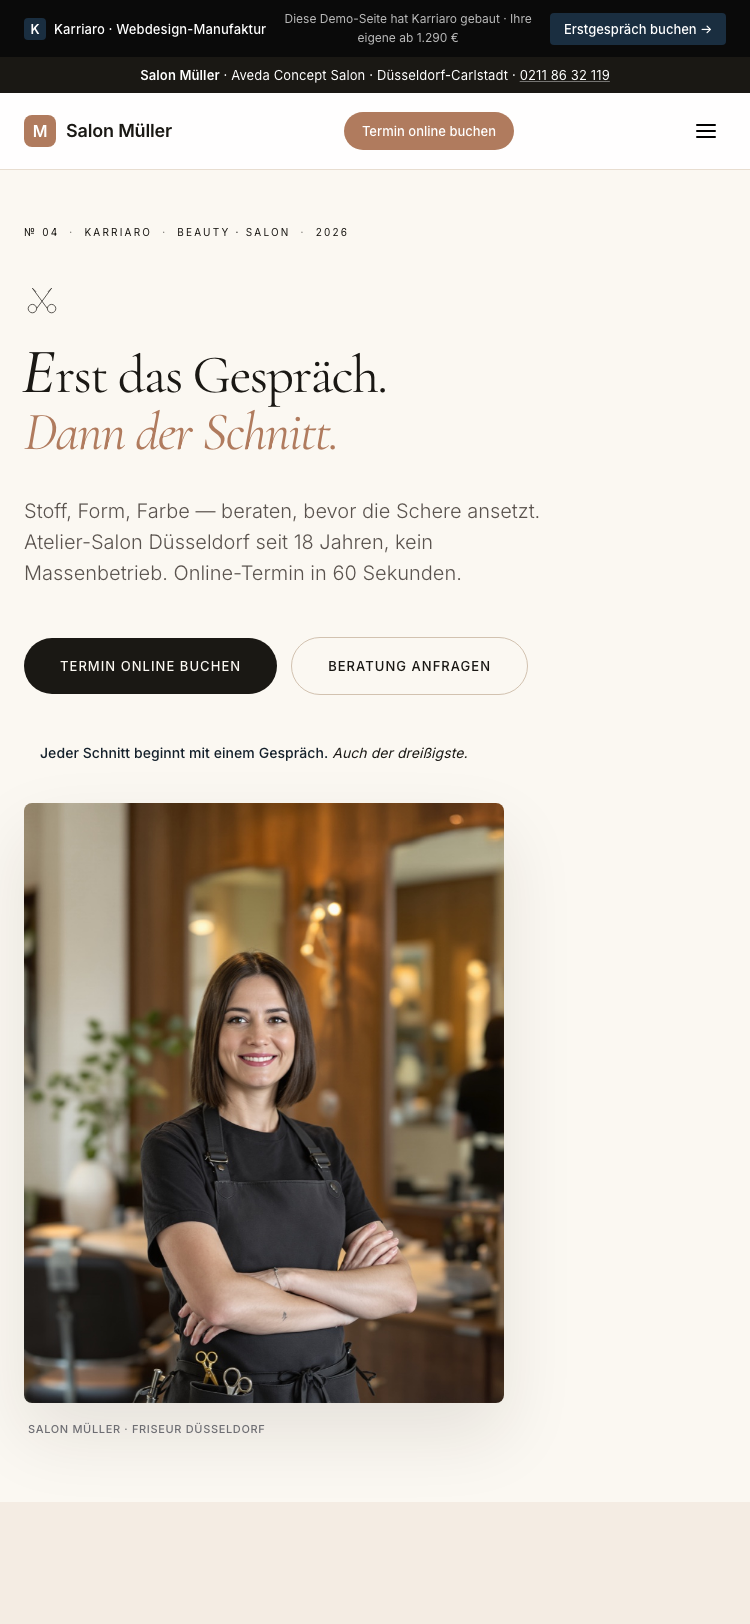
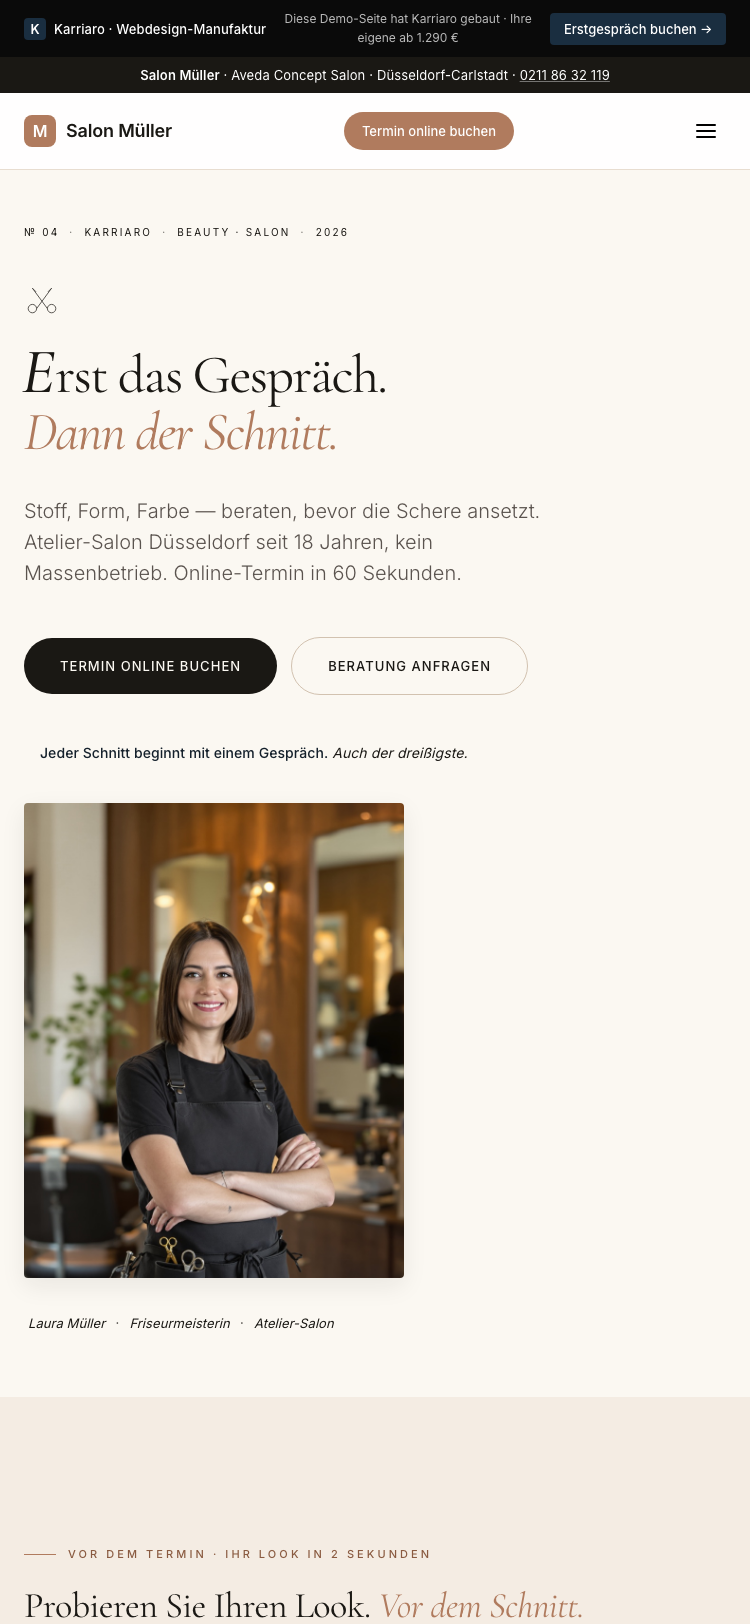
Sprint 59 — Hero-Portrait-Editorial-Frame + Hauptseite-Mockup-Sync
7 Sub-Page-Portraits geschmaeler + Editorial-Rahmen:
- max-width 480 -> 380px (Text-Spalte bekommt mehr Luft)
- 1px Gold-Border + leichterer Shadow + 4px-Radius (statt --radius-lg)
- Grid-Balance 1.05fr/1fr (oder 1.1fr/1fr) -> 1.15fr/0.85fr
- align-items: start (statt center) — Portrait sitzt oben, Text bekommt natuerliche Hoehe

Person-Caption ersetzt Firma-Label:
- Thomas Berger · Dachdeckermeister · 3. Generation
- Laura Mueller · Friseurmeisterin · Atelier-Salon
- Andreas Mueller · Geschaeftsfuehrer · IVD + HypZert
- Stefan Mueller · Sanitaer-Meister · SHK-Innung
- Dr. Sarah Weber · Allgemeinmedizin · KV-Vertragsaerztin
- Andreas Bauer · Kuechenchef · Slow Food
- Robert Schwaben · Geschaeftsfuehrer · 3. Generation
Cormorant-Italic, Gold-Separator-Punkte (.sep).

Coaching bleibt bildlos (Sprint 58 Single-Column-Hero).

Immobilien-Hero refactored: war edge-to-edge fullbleed (1fr/1fr Grid mit
Image 100% Hoehe), jetzt container-bound 1.15/0.85 wie die anderen 7.

hero-couture.css erweitert: .hero-grid--editorial, .hero-portrait-img--editorial,
.hero-portrait-caption, .hero-portrait-caption .sep + mobile-overrides.

Hauptseite-Mockup-Sync via scripts/screenshot-mockups.sh:
8 frische /images/{branche}-{firma}-mockup.jpg, jetzt zeigen sie die echten
Sprint-58+59-Heros (vorher stale: pre-Sprint-58 „Ihre …"-H1).

Verifikation: Smoke 44/44 gruen, 16 Award-Screenshots neu, 8 Mockups neu.

Changed region(s): [[0.0307, 0.4926, 0.6747, 0.8929], [0.0307, 0.9852, 0.4907, 1.0], [0.5213, 0.9852, 0.7667, 1.0]]

diff --git a/src/portfolio/meisterbetrieb-mueller.html b/src/portfolio/meisterbetrieb-mueller.html
@@ -147,7 +147,7 @@
         .mobile-toggle svg { width: 24px; height: 24px; }
         .mobile-menu { display: none; }
         .hero { padding: 64px 0 80px; background: linear-gradient(180deg, var(--accent-bg) 0%, var(--bg) 100%); }
-        .hero-grid { display: grid; grid-template-columns: 1.05fr 1fr; gap: 56px; align-items: center; }
+        .hero-grid { display: grid; grid-template-columns: 1.15fr 0.85fr; gap: clamp(40px, 5vw, 72px); align-items: start; }
         .hero-eyebrow { display: inline-flex; align-items: center; gap: 8px; color: var(--accent-dark); font-size: 13px; font-weight: 600; letter-spacing: 0.06em; text-transform: uppercase; margin-bottom: 16px; }
         .hero-eyebrow::before { content: ''; width: 24px; height: 1px; background: var(--accent); }
         .hero h1 { margin-bottom: 32px; }
@@ -175,7 +175,7 @@
         .browser-url { margin-left: 10px; font-size: 12px; color: #6e6e73; }
         .browser-screen-large { aspect-ratio: 16/10; width: 100%; height: auto; object-fit: cover; display: block; }
         /* Sprint 16 — Hero-Persona-Foto */
-        .hero-portrait-img { aspect-ratio: 4/5; width: 100%; max-width: 480px; border-radius: var(--radius-lg); object-fit: cover; box-shadow: var(--shadow-lg); display: block; }
+        .hero-portrait-img { aspect-ratio: 4/5; width: 100%; max-width: 380px; border: 1px solid var(--color-gold); border-radius: 4px; object-fit: cover; box-shadow: 0 8px 24px rgba(20,20,20,0.08); display: block; }
         .mockup-caption { display: flex; flex-direction: column; gap: 4px; margin-top: 18px; padding-left: 4px; }
         .mockup-label { font-size: 11px; font-weight: 500; color: #6e6e73; text-transform: uppercase; letter-spacing: 0.06em; }
         .mockup-story { font-size: 16px; color: #14202B; line-height: 1.4; }
@@ -429,7 +429,7 @@
     <main id="main">
         <section class="hero" style="position: relative;">
             <div class="container">
-                <div class="hero-grid">
+                <div class="hero-grid hero-grid--editorial">
                     <div>
                         <p class="hero-folio-eyebrow">
                             <span>№&nbsp;06</span>
@@ -460,9 +460,9 @@
                         <p class="hero-marginalia-anchor"><strong>Versichert bis 5 Mio €.</strong> Das ist nicht Marketing — das ist Vertrag.</p>
                     </div>
                     <div class="hero-mockup">
-                        <img class="hero-portrait-img" src="/images/sanitaer/persona.jpg" alt="Stefan Müller, Sanitär-Meister Müller Sanitär &amp; Heizung" loading="eager" width="800" height="1000">
+                        <img class="hero-portrait-img hero-portrait-img--editorial" src="/images/sanitaer/persona.jpg" alt="Stefan Müller, Sanitär-Meister Müller Sanitär &amp; Heizung" loading="eager" width="800" height="1000">
                         <div class="mockup-caption">
-                            <span class="mockup-label">Müller Sanitär &amp; Heizung · Meisterbetrieb Stuttgart</span>
+                            <span class="hero-portrait-caption">Stefan Müller <span class="sep">·</span> Sanitär-Meister <span class="sep">·</span> SHK-Innung</span>
                         </div>
                     </div>
                 </div>

diff --git a/src/portfolio/restaurant-template.html b/src/portfolio/restaurant-template.html
@@ -162,7 +162,7 @@
         /* Hero */
         .hero { padding: 64px 0 80px; background: linear-gradient(180deg, var(--accent-soft) 0%, var(--bg) 100%); }
         .hero-inner { max-width: var(--max); margin: 0 auto; padding: 0 28px; }
-        .hero-grid { display: grid; grid-template-columns: 1.05fr 1fr; gap: 56px; align-items: center; }
+        .hero-grid { display: grid; grid-template-columns: 1.15fr 0.85fr; gap: clamp(40px, 5vw, 72px); align-items: start; }
         .hero-content { max-width: 560px; }
         .hero-eyebrow { color: var(--accent); font-family: var(--sans); font-size: 12px; font-weight: 600; letter-spacing: 0.28em; text-transform: uppercase; margin-bottom: 20px; }
         .hero h1 { color: var(--text); margin-bottom: 24px; font-weight: 400; }
@@ -191,7 +191,7 @@
         .browser-url { margin-left: 10px; font-size: 12px; color: #6e6e73; }
         .browser-screen-large { aspect-ratio: 16/10; width: 100%; height: auto; object-fit: cover; display: block; }
         /* Sprint 16 — Hero-Persona-Foto */
-        .hero-portrait-img { aspect-ratio: 4/5; width: 100%; max-width: 480px; border-radius: var(--radius-lg, 16px); object-fit: cover; box-shadow: var(--shadow-lg, 0 20px 50px rgba(0,0,0,0.10)); display: block; }
+        .hero-portrait-img { aspect-ratio: 4/5; width: 100%; max-width: 380px; border: 1px solid var(--color-gold); border-radius: 4px; object-fit: cover; box-shadow: 0 8px 24px rgba(20,20,20,0.08); display: block; }
         .mockup-caption { display: flex; flex-direction: column; gap: 4px; margin-top: 18px; padding-left: 4px; }
         .mockup-label { font-size: 11px; font-weight: 500; color: var(--text-light); text-transform: uppercase; letter-spacing: 0.06em; }
         .mockup-story { font-size: 16px; color: var(--text); line-height: 1.4; }
@@ -520,7 +520,7 @@
     <main id="main">
         <section class="hero" style="position: relative;">
             <div class="hero-inner">
-                <div class="hero-grid">
+                <div class="hero-grid hero-grid--editorial">
                     <div class="hero-content">
                         <p class="hero-folio-eyebrow">
                             <span>№&nbsp;08</span>
@@ -552,9 +552,9 @@
                         <p class="hero-marginalia-anchor"><strong>Slow Food seit 1987.</strong> Damals ohne Etikett, heute mit.</p>
                     </div>
                     <div class="hero-mockup">
-                        <img class="hero-portrait-img" src="/images/restaurant/persona.jpg" alt="Andreas Bauer, Küchenchef Goldener Hirsch" loading="eager" width="800" height="1000">
+                        <img class="hero-portrait-img hero-portrait-img--editorial" src="/images/restaurant/persona.jpg" alt="Andreas Bauer, Küchenchef Goldener Hirsch" loading="eager" width="800" height="1000">
                         <div class="mockup-caption">
-                            <span class="mockup-label">Goldener Hirsch · Restaurant München-Schwabing</span>
+                            <span class="hero-portrait-caption">Andreas Bauer <span class="sep">·</span> Küchenchef <span class="sep">·</span> Slow Food</span>
                         </div>
                     </div>
                 </div>

diff --git a/src/portfolio/dachdecker-meisterbetrieb.html b/src/portfolio/dachdecker-meisterbetrieb.html
@@ -147,7 +147,7 @@
         .mobile-menu { display: none; }
 
         .hero { padding: 64px 0 80px; background: linear-gradient(180deg, var(--accent-bg) 0%, var(--bg) 100%); }
-        .hero-grid { display: grid; grid-template-columns: 1.05fr 1fr; gap: 56px; align-items: center; }
+        .hero-grid { display: grid; grid-template-columns: 1.15fr 0.85fr; gap: clamp(40px, 5vw, 72px); align-items: start; }
         .hero-eyebrow { display: inline-flex; align-items: center; gap: 8px; color: var(--accent-dark); font-size: 13px; font-weight: 600; letter-spacing: 0.06em; text-transform: uppercase; margin-bottom: 16px; }
         .hero-eyebrow::before { content: ''; width: 24px; height: 1px; background: var(--accent); }
         .hero h1 { margin-bottom: 32px; }
@@ -179,7 +179,7 @@
         .browser-url { margin-left: 10px; font-size: 12px; color: #6e6e73; }
         .browser-screen-large { aspect-ratio: 16/10; width: 100%; height: auto; object-fit: cover; display: block; }
         /* Sprint 16 — Hero-Persona-Foto */
-        .hero-portrait-img { aspect-ratio: 4/5; width: 100%; max-width: 480px; border-radius: var(--radius-lg); object-fit: cover; box-shadow: var(--shadow-lg); display: block; }
+        .hero-portrait-img { aspect-ratio: 4/5; width: 100%; max-width: 380px; border: 1px solid var(--color-gold); border-radius: 4px; object-fit: cover; box-shadow: 0 8px 24px rgba(20,20,20,0.08); display: block; }
         .mockup-caption { display: flex; flex-direction: column; gap: 4px; margin-top: 18px; padding-left: 4px; }
         .mockup-label { font-size: 11px; font-weight: 500; color: #6e6e73; text-transform: uppercase; letter-spacing: 0.06em; }
         .mockup-story { font-size: 16px; color: #14202B; line-height: 1.4; }
@@ -626,7 +626,7 @@
     <main id="main">
         <section class="hero" style="position: relative;">
             <div class="container">
-                <div class="hero-grid">
+                <div class="hero-grid hero-grid--editorial">
                     <div>
                         <p class="hero-folio-eyebrow">
                             <span>№&nbsp;03</span>
@@ -656,9 +656,9 @@
                         <p class="hero-marginalia-anchor"><strong>4.200 Dächer in 37 Jahren.</strong> Das ist eines pro 3 Tage.</p>
                     </div>
                     <div class="hero-mockup">
-                        <img class="hero-portrait-img" src="/images/dachdecker/persona.jpg" alt="Thomas Berger, Dachdeckermeister Meisterbetrieb Berger" loading="eager" width="800" height="1000">
+                        <img class="hero-portrait-img hero-portrait-img--editorial" src="/images/dachdecker/persona.jpg" alt="Thomas Berger, Dachdeckermeister Meisterbetrieb Berger" loading="eager" width="800" height="1000">
                         <div class="mockup-caption">
-                            <span class="mockup-label">Meisterbetrieb Berger · Dachdecker Stuttgart</span>
+                            <span class="hero-portrait-caption">Thomas Berger <span class="sep">·</span> Dachdeckermeister <span class="sep">·</span> 3. Generation</span>
                         </div>
                     </div>
                 </div>

diff --git a/src/portfolio/praxis-weber.html b/src/portfolio/praxis-weber.html
@@ -159,7 +159,7 @@
 
         /* Hero */
         .hero { padding: 80px 0 96px; background: linear-gradient(180deg, var(--accent-bg) 0%, var(--bg) 100%); }
-        .hero-grid { display: grid; grid-template-columns: 1.05fr 1fr; gap: 64px; align-items: center; }
+        .hero-grid { display: grid; grid-template-columns: 1.15fr 0.85fr; gap: clamp(40px, 5vw, 72px); align-items: start; }
         .hero-eyebrow { display: inline-flex; align-items: center; gap: 8px; color: var(--accent-dark); font-size: 13px; font-weight: 600; letter-spacing: 0.06em; text-transform: uppercase; margin-bottom: 18px; }
         .hero-eyebrow::before { content: ''; width: 24px; height: 1px; background: var(--accent); }
         .hero h1 { margin-bottom: 32px; }
@@ -188,7 +188,7 @@
         .browser-url { margin-left: 10px; font-size: 12px; color: #6e6e73; }
         .browser-screen-large { aspect-ratio: 16/10; width: 100%; height: auto; object-fit: cover; display: block; }
         /* Sprint 16 — Hero-Persona-Foto */
-        .hero-portrait-img { aspect-ratio: 4/5; width: 100%; max-width: 480px; border-radius: var(--radius-lg); object-fit: cover; box-shadow: var(--shadow-lg); display: block; }
+        .hero-portrait-img { aspect-ratio: 4/5; width: 100%; max-width: 380px; border: 1px solid var(--color-gold); border-radius: 4px; object-fit: cover; box-shadow: 0 8px 24px rgba(20,20,20,0.08); display: block; }
         .mockup-caption { display: flex; flex-direction: column; gap: 4px; margin-top: 18px; padding-left: 4px; }
         .mockup-label { font-size: 11px; font-weight: 500; color: #6e6e73; text-transform: uppercase; letter-spacing: 0.06em; }
         .mockup-story { font-size: 16px; color: #14202B; line-height: 1.4; }
@@ -473,7 +473,7 @@
         <!-- 1. Hero -->
         <section class="hero" style="position: relative;">
             <div class="container">
-                <div class="hero-grid">
+                <div class="hero-grid hero-grid--editorial">
                     <div>
                         <p class="hero-folio-eyebrow">
                             <span>№&nbsp;07</span>
@@ -507,9 +507,9 @@
                         <p class="hero-marginalia-anchor"><strong>22 Jahre dieselben Patienten.</strong> Hausarzt heißt: Beziehung.</p>
                     </div>
                     <div class="hero-mockup">
-                        <img class="hero-portrait-img" src="/images/praxis/persona.jpg" alt="Dr. Sarah Weber, Allgemeinmedizinerin Praxis Dr. Weber" loading="eager" width="800" height="1000">
+                        <img class="hero-portrait-img hero-portrait-img--editorial" src="/images/praxis/persona.jpg" alt="Dr. Sarah Weber, Allgemeinmedizinerin Praxis Dr. Weber" loading="eager" width="800" height="1000">
                         <div class="mockup-caption">
-                            <span class="mockup-label">Praxis Dr. Weber · Hausarztpraxis München</span>
+                            <span class="hero-portrait-caption">Dr. Sarah Weber <span class="sep">·</span> Allgemeinmedizin <span class="sep">·</span> KV-Vertragsärztin</span>
                         </div>
                     </div>
                 </div>

diff --git a/src/portfolio/friseur-salon.html b/src/portfolio/friseur-salon.html
@@ -95,7 +95,7 @@
         .mobile-menu { display: none; }
 
         .hero { padding: clamp(64px, 8vh, 96px) 0 clamp(80px, 12vh, 140px); background: var(--bg); }
-        .hero-grid { display: grid; grid-template-columns: 1.05fr 1fr; gap: 64px; align-items: center; }
+        .hero-grid { display: grid; grid-template-columns: 1.15fr 0.85fr; gap: clamp(40px, 5vw, 72px); align-items: start; }
         .hero-eyebrow { display: inline-flex; align-items: center; gap: 12px; color: var(--accent-dark); font-size: 11px; font-weight: 500; letter-spacing: 0.28em; text-transform: uppercase; margin-bottom: 32px; }
         .hero-eyebrow::before { content: ''; width: 32px; height: 1px; background: var(--accent); }
         .hero h1 { margin-bottom: 24px; }
@@ -125,7 +125,7 @@
         .browser-url { margin-left: 10px; font-size: 12px; color: #6e6e73; }
         .browser-screen-large { aspect-ratio: 16/10; width: 100%; height: auto; object-fit: cover; display: block; }
         /* Sprint 16 — Hero-Persona-Foto */
-        .hero-portrait-img { aspect-ratio: 4/5; width: 100%; max-width: 480px; border-radius: var(--radius-lg); object-fit: cover; box-shadow: var(--shadow-lg); display: block; }
+        .hero-portrait-img { aspect-ratio: 4/5; width: 100%; max-width: 380px; border: 1px solid var(--color-gold); border-radius: 4px; object-fit: cover; box-shadow: 0 8px 24px rgba(20,20,20,0.08); display: block; }
         .mockup-caption { display: flex; flex-direction: column; gap: 4px; margin-top: 18px; padding-left: 4px; }
         .mockup-label { font-size: 11px; font-weight: 500; color: #6e6e73; text-transform: uppercase; letter-spacing: 0.06em; }
         .mockup-story { font-size: 16px; color: #14202B; line-height: 1.4; }
@@ -610,7 +610,7 @@
     <main id="main">
         <section class="hero" style="position: relative;">
             <div class="container">
-                <div class="hero-grid">
+                <div class="hero-grid hero-grid--editorial">
                     <div>
                         <p class="hero-folio-eyebrow">
                             <span>№&nbsp;04</span>
@@ -643,9 +643,9 @@
                         <p class="hero-marginalia-anchor"><strong>Jeder Schnitt beginnt mit einem Gespräch.</strong> Auch der dreißigste.</p>
                     </div>
                     <div class="hero-mockup">
-                        <img class="hero-portrait-img" src="/images/friseur/persona.jpg" alt="Laura Müller, Friseurmeisterin Salon Müller" loading="eager" width="800" height="1000">
+                        <img class="hero-portrait-img hero-portrait-img--editorial" src="/images/friseur/persona.jpg" alt="Laura Müller, Friseurmeisterin Salon Müller" loading="eager" width="800" height="1000">
                         <div class="mockup-caption">
-                            <span class="mockup-label">Salon Müller · Friseur Düsseldorf</span>
+                            <span class="hero-portrait-caption">Laura Müller <span class="sep">·</span> Friseurmeisterin <span class="sep">·</span> Atelier-Salon</span>
                         </div>
                     </div>
                 </div>

diff --git a/src/portfolio/spedition-schwaben.html b/src/portfolio/spedition-schwaben.html
@@ -175,7 +175,7 @@
         .mobile-menu { display: none; }
 
         .hero { background: linear-gradient(180deg, var(--accent-soft) 0%, var(--bg) 100%); padding: 80px 0 64px; position: relative; overflow: hidden; }
-        .hero-inner { max-width: var(--max); margin: 0 auto; padding: 0 24px; display: grid; grid-template-columns: 1.1fr 1fr; gap: 64px; align-items: center; }
+        .hero-inner { max-width: var(--max); margin: 0 auto; padding: 0 24px; display: grid; grid-template-columns: 1.15fr 0.85fr; gap: clamp(40px, 5vw, 72px); align-items: start; }
         .hero-content .eyebrow { color: var(--signal); }
         .hero h1 { margin-bottom: 22px; color: var(--text); }
         .hero h1 .hl { color: var(--accent); }
@@ -188,7 +188,7 @@
         .hero-trust .sep { color: var(--border-strong); }
         .hero-content > .hero-mockup { display: none; }
         .hero-inner > .hero-mockup { display: block; width: 100%; }
-        .hero-portrait-img { width: 100%; aspect-ratio: 4/5; object-fit: cover; border-radius: var(--radius-lg); box-shadow: var(--shadow-lg); display: block; }
+        .hero-portrait-img { width: 100%; aspect-ratio: 4/5; max-width: 380px; object-fit: cover; border: 1px solid var(--color-gold); border-radius: 4px; box-shadow: 0 8px 24px rgba(20,20,20,0.08); display: block; }
         .tracking-section { padding: 56px 0 72px; background: var(--bg-soft); border-top: 1px solid var(--border); }
         .tracking-inner { max-width: var(--max); margin: 0 auto; padding: 0 24px; }
         .tracking-head { margin-bottom: 28px; max-width: 720px; }
@@ -544,9 +544,9 @@
                     <p class="hero-marginalia-anchor"><strong>99,6&nbsp;% gemessen.</strong> Nicht versprochen.</p>
                 </div>
                 <div class="hero-mockup">
-                    <img class="hero-portrait-img" src="/images/spedition/persona.jpg" alt="Robert Schwaben, Geschäftsführer Spedition Schwaben Stuttgart" loading="eager" width="800" height="1000">
+                    <img class="hero-portrait-img hero-portrait-img--editorial" src="/images/spedition/persona.jpg" alt="Robert Schwaben, Geschäftsführer Spedition Schwaben Stuttgart" loading="eager" width="800" height="1000">
                     <div class="mockup-caption">
-                        <span class="mockup-label">Spedition Schwaben · DACH-Logistik Stuttgart</span>
+                        <span class="hero-portrait-caption">Robert Schwaben <span class="sep">·</span> Geschäftsführer <span class="sep">·</span> 3. Generation</span>
                     </div>
                 </div>
             </div>

diff --git a/src/portfolio/immobilien-makler.html b/src/portfolio/immobilien-makler.html
@@ -162,14 +162,15 @@
         .mobile-toggle svg { width: 24px; height: 24px; }
         .mobile-menu { display: none; }
 
-        .hero { display: grid; grid-template-columns: 1fr 1fr; gap: 0; min-height: clamp(440px, 54vh, 580px); align-items: start; background: #F5F5F7; }
-        .hero-content { padding-top: 0; padding-bottom: 32px; padding-left: max(24px, calc((100vw - var(--max)) / 2 + 24px)); padding-right: 56px; }
-        .hero-portrait { align-self: stretch; height: 100%; overflow: hidden; }
-        .hero-portrait img { width: 100%; height: 100%; object-fit: cover; object-position: center top; display: block; }
+        .hero { display: grid; grid-template-columns: 1.15fr 0.85fr; gap: clamp(40px, 5vw, 72px); align-items: start; min-height: clamp(440px, 54vh, 580px); padding: 0 24px; max-width: var(--max); margin: 0 auto; background: transparent; }
+        .hero-content { padding-top: 0; padding-bottom: 32px; padding-left: 0; padding-right: 0; }
+        .hero-portrait { align-self: start; display: flex; flex-direction: column; padding-top: clamp(24px, 4vh, 56px); }
+        .hero-portrait img { width: 100%; max-width: 380px; aspect-ratio: 4/5; height: auto; object-fit: cover; object-position: center top; display: block; border: 1px solid var(--color-gold); border-radius: 4px; box-shadow: 0 8px 24px rgba(20,20,20,0.08); }
         @media (max-width: 920px) {
             .hero { grid-template-columns: 1fr; min-height: auto; }
-            .hero-content { padding: 48px 24px 32px; }
-            .hero-portrait { aspect-ratio: 4/3; }
+            .hero-content { padding: 48px 0 32px; }
+            .hero-portrait { padding-top: 0; }
+            .hero-portrait img { max-width: 100%; aspect-ratio: 4/3; }
         }
         .hero-grid { display: grid; grid-template-columns: 1.05fr 1fr; gap: 56px; align-items: center; }
         .hero-eyebrow { display: block; color: var(--text); font-size: 13px; font-weight: 600; letter-spacing: 0.08em; text-transform: uppercase; margin-bottom: 28px; }
@@ -603,6 +604,7 @@
             </div>
             <div class="hero-portrait">
                 <img src="/images/immobilien/andreas-team.jpg" alt="Andreas Müller, Geschäftsführer Stadtmakler Stuttgart" loading="eager" width="800" height="1000">
+                <span class="hero-portrait-caption">Andreas Müller <span class="sep">·</span> Geschäftsführer <span class="sep">·</span> IVD + HypZert</span>
             </div>
             <div class="hero-folio-marker" aria-hidden="true">
                 <span class="folio-page">S. 05</span>

diff --git a/src/css/hero-couture.css b/src/css/hero-couture.css
@@ -100,3 +100,42 @@
         max-width: 280px;
     }
 }
+
+/* Sprint 59 — Hero-Portrait-Editorial-Frame
+   Schmaleres, gold-gerahmtes Portrait + Cormorant-Italic-Caption.
+   Inline-CSS in den Sub-Pages wird per Page direkt angepasst (höhere Spezifität);
+   die Klassen hier sind die kanonische Regel-Quelle. */
+.hero-grid--editorial {
+    grid-template-columns: 1.15fr 0.85fr;
+    gap: clamp(40px, 5vw, 72px);
+    align-items: start;
+}
+.hero-portrait-img--editorial {
+    max-width: 380px;
+    border: 1px solid var(--color-gold);
+    border-radius: 4px;
+    box-shadow: 0 8px 24px rgba(20, 20, 20, 0.08);
+}
+.hero-portrait-caption {
+    display: block;
+    margin-top: clamp(12px, 1.5vh, 18px);
+    font-family: var(--font-pull-quote);
+    font-style: italic;
+    font-size: clamp(13px, 1vw, 15px);
+    line-height: 1.45;
+    letter-spacing: 0.005em;
+    color: var(--color-graphite-soft);
+    max-width: 380px;
+}
+.hero-portrait-caption .sep {
+    color: var(--color-gold);
+    margin: 0 0.5em;
+    opacity: 0.7;
+    font-style: normal;
+}
+
+@media (max-width: 760px) {
+    .hero-grid--editorial { grid-template-columns: 1fr; }
+    .hero-portrait-img--editorial { max-width: 100%; }
+    .hero-portrait-caption { max-width: 100%; }
+}
